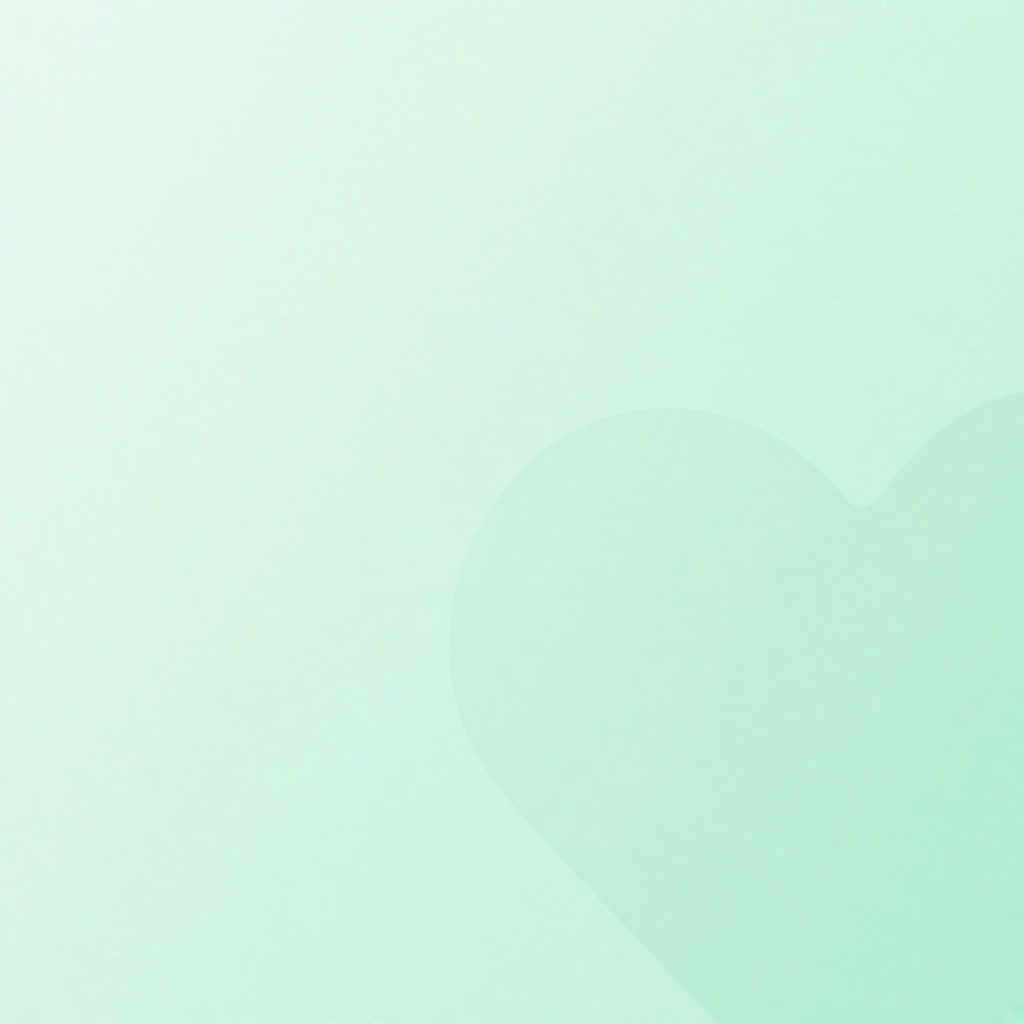
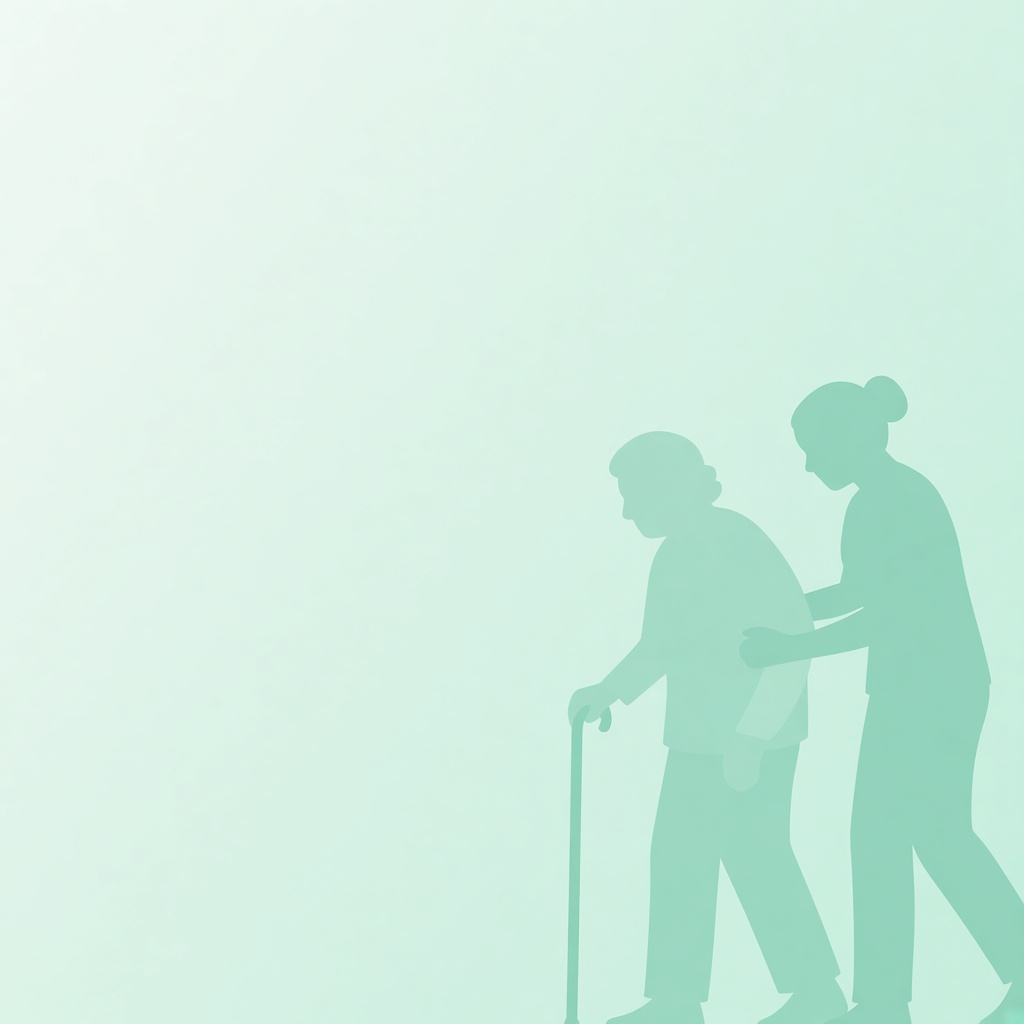
done

Changed region(s): [[0.5312, 0.3438, 1.0, 1.0]]

diff --git a/src/components/common/SearchableDropdown.jsx b/src/components/common/SearchableDropdown.jsx
@@ -250,10 +250,10 @@ const styles = StyleSheet.create({
     marginBottom: 8,
   },
   dropdownButton: {
-    backgroundColor: '#fff',
+    backgroundColor: '#FFFFFF',
     borderRadius: 14,
     borderWidth: 1,
-    borderColor: '#FFFFFF',
+    borderColor: '#D4DCDA',
   },
   pillButton: {
     backgroundColor: '#F3FAF7',
@@ -265,7 +265,7 @@ const styles = StyleSheet.create({
     backgroundColor: '#FFFFFF',
     borderRadius: 16,
     borderWidth: 1,
-    borderColor: '#FFFFFF',
+    borderColor: '#D4DCDA',
   },
   dropdownButtonActive: {
     borderColor: '#008178',
@@ -352,10 +352,10 @@ const styles = StyleSheet.create({
   searchBarContainer: {
     flexDirection: 'row',
     alignItems: 'center',
-    backgroundColor: '#fff',
+    backgroundColor: '#FFFFFF',
     borderRadius: 12,
     borderWidth: 1,
-    borderColor: '#E3E8F0',
+    borderColor: '#D4DCDA',
     paddingHorizontal: 12,
     height: 44,
     marginVertical: 12,

diff --git a/src/screens/AllCaregiversScreen.jsx b/src/screens/AllCaregiversScreen.jsx
@@ -234,10 +234,14 @@ const styles = StyleSheet.create({
     height: 48,
     flexDirection: 'row',
     alignItems: 'center',
-    backgroundColor: '#F5F7FA',
+    backgroundColor: '#FFFFFF',
     borderRadius: 12,
     paddingHorizontal: 14,
     marginRight: 10,
+
+    borderColor: '#D4DCDA',
+
+    borderWidth: 1,
   },
 
   searchInput: {
@@ -268,10 +272,16 @@ const styles = StyleSheet.create({
   },
 
   locationInput: {
+
+    backgroundColor: '#FFFFFF',
     flex: 1,
     marginLeft: 10,
     fontSize: 14,
     color: '#172333',
+
+    borderColor: '#D4DCDA',
+
+    borderWidth: 1,
   },
 
   // =====================================================

diff --git a/src/screens/CheckoutScreen.jsx b/src/screens/CheckoutScreen.jsx
@@ -248,9 +248,9 @@ const styles = StyleSheet.create({
   inputBox: {
     height: 52,
     borderRadius: 14,
-    backgroundColor: '#F6F6F6',
+    backgroundColor: '#FFFFFF',
     borderWidth: 1,
-    borderColor: '#E3E8F0',
+    borderColor: '#D4DCDA',
     flexDirection: 'row',
     alignItems: 'center',
     paddingHorizontal: 14,
@@ -270,7 +270,10 @@ const styles = StyleSheet.create({
     paddingVertical: 0,
   },
   noteInput: {
+    backgroundColor: '#FFFFFF',
     height: '100%',
+    borderColor: '#D4DCDA',
+    borderWidth: 1,
   },
   paymentCard: {
     flexDirection: 'row',

diff --git a/src/components/common/DisputeSheet.jsx b/src/components/common/DisputeSheet.jsx
@@ -163,17 +163,20 @@ const styles = StyleSheet.create({
   input: {
     height: 48,
     borderRadius: 12,
-    backgroundColor: '#F6F6F6',
+    backgroundColor: '#FFFFFF',
     borderWidth: 1,
-    borderColor: '#E3E8F0',
+    borderColor: '#D4DCDA',
     paddingHorizontal: 14,
     fontSize: 15,
     color: '#111820',
     marginBottom: 14,
   },
   detailsInput: {
+    backgroundColor: '#FFFFFF',
     height: 96,
     paddingTop: 12,
+    borderColor: '#D4DCDA',
+    borderWidth: 1,
   },
   submitBtn: {
     width: '100%',

diff --git a/src/components/auth/AuthLayout.jsx b/src/components/auth/AuthLayout.jsx
@@ -20,8 +20,6 @@ const TEAL = '#008178';
 const INK = '#163532';
 const MUTED = '#7E9390';
 const PAGE = '#EAF6F1';
-const BORDER = '#C9DDD7';
-
 const AuthLayout = ({
   children,
   title,
@@ -279,7 +277,7 @@ const styles = StyleSheet.create({
     borderRadius: 16,
     backgroundColor: '#FFFFFF',
     borderWidth: 1,
-    borderColor: BORDER,
+    borderColor: '#D4DCDA',
     flexDirection: 'row',
     alignItems: 'center',
     paddingHorizontal: 18,

diff --git a/src/screens/SupportChatScreen.jsx b/src/screens/SupportChatScreen.jsx
@@ -1217,12 +1217,14 @@ const styles = StyleSheet.create({
     flex: 1,
     minHeight: 40,
     maxHeight: 120,
-    backgroundColor: '#F4F6F8',
+    backgroundColor: '#FFFFFF',
     borderRadius: 20,
     paddingHorizontal: 14,
     paddingVertical: 10,
     fontSize: 15,
     color: '#111820',
+    borderColor: '#D4DCDA',
+    borderWidth: 1,
   },
   sendButton: {
     width: 40,

diff --git a/src/screens/ReviewScreen.jsx b/src/screens/ReviewScreen.jsx
@@ -172,12 +172,14 @@ const styles = StyleSheet.create({
     marginBottom: 12,
   },
   reviewInput: {
-    backgroundColor: '#F6F6F6',
+    backgroundColor: '#FFFFFF',
     borderRadius: 12,
     padding: 16,
     fontSize: 14,
     color: '#111820',
     minHeight: 120,
+    borderColor: '#D4DCDA',
+    borderWidth: 1,
   },
   submitButton: {
     backgroundColor: '#008178',

diff --git a/src/screens/AddFamilyMember.jsx b/src/screens/AddFamilyMember.jsx
@@ -322,13 +322,13 @@ const styles = StyleSheet.create({
   },
   input: {
     height: 52,
-    backgroundColor: '#F6F6F6',
+    backgroundColor: '#FFFFFF',
     borderRadius: 14,
     paddingHorizontal: 14,
     fontSize: 15,
     color: '#111820',
     borderWidth: 1,
-    borderColor: '#E3E8F0',
+    borderColor: '#D4DCDA',
     marginBottom: 16,
   },
   bottomContainer: {

diff --git a/src/screens/EditProfile.jsx b/src/screens/EditProfile.jsx
@@ -394,13 +394,13 @@ const styles = StyleSheet.create({
   },
   input: {
     height: 52,
-    backgroundColor: '#F6F6F6',
+    backgroundColor: '#FFFFFF',
     borderRadius: 14,
     paddingHorizontal: 14,
     fontSize: 15,
     color: '#111820',
     borderWidth: 1,
-    borderColor: '#E3E8F0',
+    borderColor: '#D4DCDA',
     marginBottom: 16,
   },
   langSwitch: {

diff --git a/src/screens/SelectCaregiverScreen.jsx b/src/screens/SelectCaregiverScreen.jsx
@@ -436,11 +436,13 @@ const styles = StyleSheet.create({
   searchBox: {
     height: 48,
     borderRadius: 12,
-    backgroundColor: '#F4F7F6',
+    backgroundColor: '#FFFFFF',
     flexDirection: 'row',
     alignItems: 'center',
     paddingHorizontal: 16,
     gap: 8,
+    borderColor: '#D4DCDA',
+    borderWidth: 1,
   },
   searchInput: {
     flex: 1,

diff --git a/src/screens/AreaSelectScreen.jsx b/src/screens/AreaSelectScreen.jsx
@@ -297,9 +297,9 @@ const styles = StyleSheet.create({
   addressBox: {
     minHeight: 110,
     borderRadius: 16,
-    backgroundColor: '#fff',
+    backgroundColor: '#FFFFFF',
     borderWidth: 1,
-    borderColor: '#FFFFFF',
+    borderColor: '#D4DCDA',
     flexDirection: 'row',
     alignItems: 'flex-start',
     paddingHorizontal: 14,

diff --git a/src/screens/MedicineScreen.jsx b/src/screens/MedicineScreen.jsx
@@ -352,9 +352,9 @@ const styles = StyleSheet.create({
   searchBox: {
     height: 48,
     borderRadius: 14,
-    backgroundColor: '#F6F6F6',
+    backgroundColor: '#FFFFFF',
     borderWidth: 1,
-    borderColor: '#E3E8F0',
+    borderColor: '#D4DCDA',
     flexDirection: 'row',
     alignItems: 'center',
     paddingHorizontal: 14,
